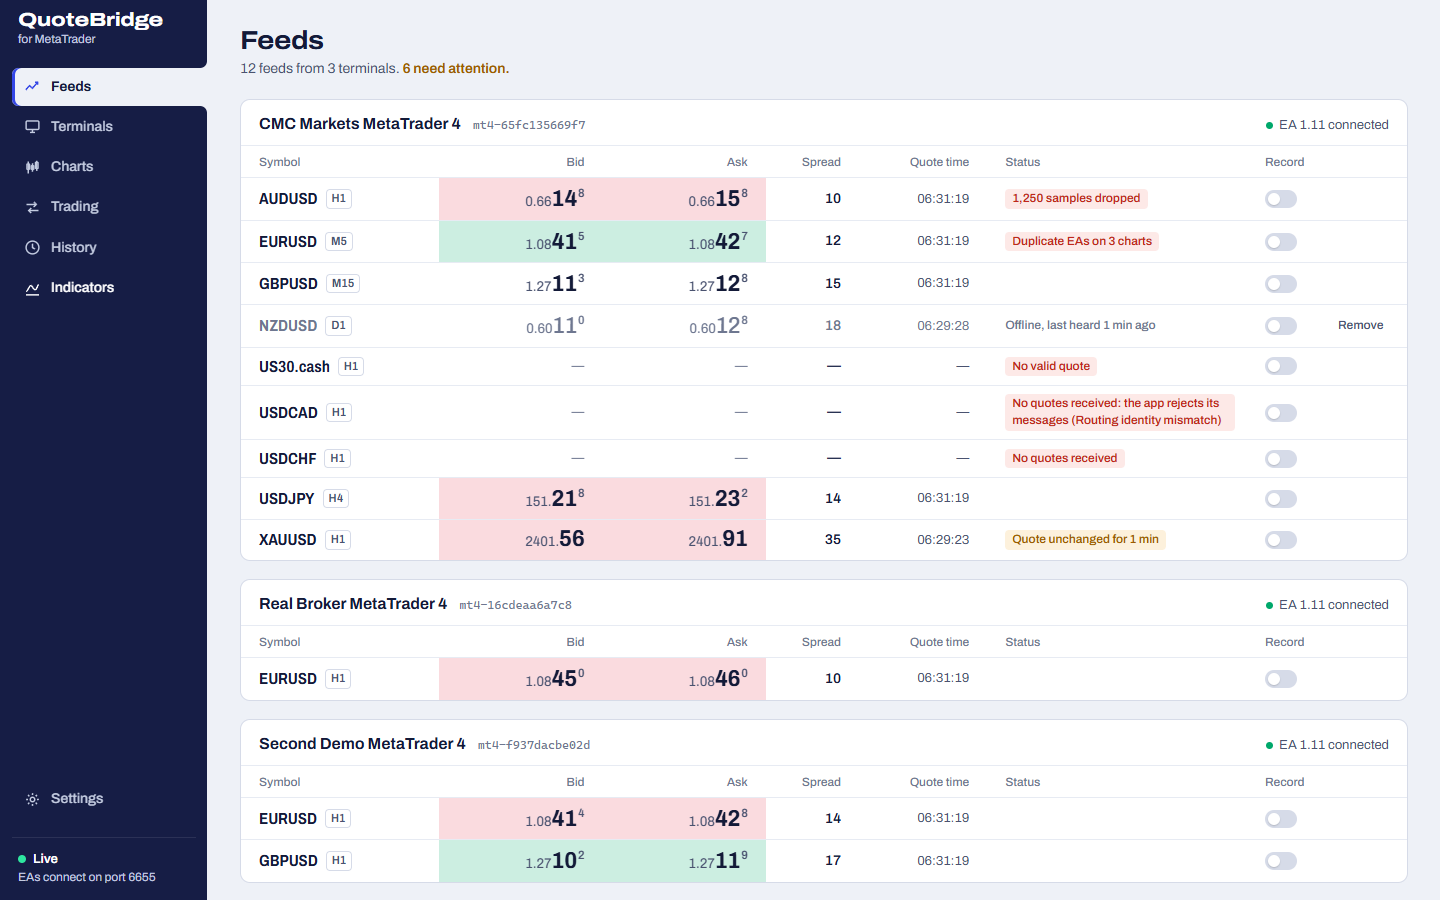
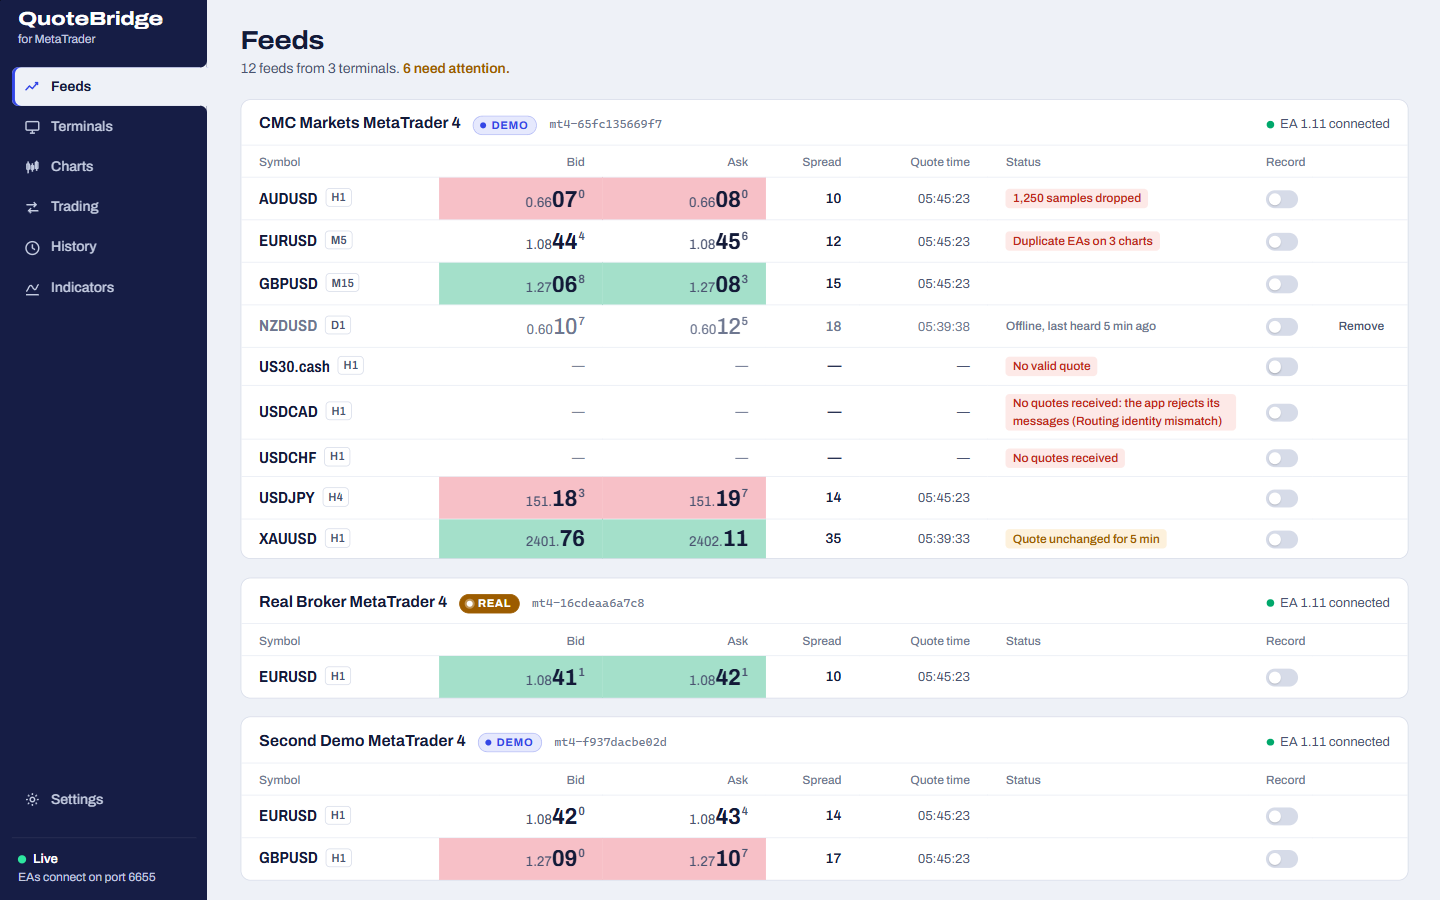
Add skill samples

diff --git a/docs/agents.md b/docs/agents.md
@@ -1,0 +1,103 @@
+# AI agents and remote access
+
+Talk to MetaTrader in plain words. The [mt4-quote-bridge-cli](https://github.com/ross-jill-ws/mt4-quote-bridge-cli)
+skill teaches an AI agent to use QuoteBridge: ask for a gold chart, a bitcoin quote, your funds or a trade, and the
+agent runs the `mt4-quote-bridge` [command-line client](cli.md) against the app for you.
+
+The agent can run on the same PC as QuoteBridge, or anywhere else once you open a tunnel to the app with
+[ngrok](#use-it-from-another-computer-with-ngrok).
+
+## Install the skill
+
+You need Node.js 22.12 or later on the computer where the agent runs.
+
+**Coding agents** (Claude Code, Codex, Cursor and others): run
+
+```
+npx skills@latest add https://github.com/ross-jill-ws/mt4-quote-bridge-cli
+```
+
+**Bot apps such as Grok Bot, Dots or Muse:** paste the same line into the chat and ask the bot to install it:
+
+```
+Install this skill:
+npx skills@latest add https://github.com/ross-jill-ws/mt4-quote-bridge-cli
+```
+
+The bot adds `mt4-quote-bridge-cli` to its skill library.
+
+![A bot installs the mt4-quote-bridge-cli skill from GitHub, connects to QuoteBridge through an ngrok address, asks for an API key and confirms it is signed in](images/agent-install-skill.gif)
+
+You don't install the CLI yourself. The first time the agent uses the skill, the skill installs `mt4-quote-bridge`
+from GitHub, which can take a minute. Later it updates the CLI when needed. Run `npx skills@latest update` to update
+the skill itself.
+
+## Connect the agent to the app
+
+1. In the QuoteBridge app window, open **Settings › API keys** and create a key. A `readonly` key reads everything. A
+   `trader` key can also take screenshots and preview and send trades. The key is shown once, so copy it.
+2. Tell the agent where the app is:
+   - On the same PC: the default, `http://127.0.0.1:5580`. Just ask for a quote.
+   - On another computer: the ngrok address from the [next section](#use-it-from-another-computer-with-ngrok), for
+     example "connect to `https://<your-address>.ngrok-free.dev`".
+3. Give the agent the key when it asks. Bot apps usually keep it in their secrets store.
+
+The agent then confirms it is signed in, and says which key it is using and whether that key can trade.
+
+## Use it from another computer with ngrok
+
+QuoteBridge answers only on its own PC, at `http://localhost:5580`. To reach it from a bot in the cloud, a laptop or
+your phone, open a tunnel with [ngrok](https://ngrok.com/download) on the PC that runs QuoteBridge:
+
+```
+ngrok http 5580 --host-header=rewrite
+```
+
+ngrok prints a **Forwarding** address such as `https://<your-address>.ngrok-free.dev`. Give that address to the
+agent, or use it with the CLI:
+
+```
+mt4-quote-bridge auth server https://<your-address>.ngrok-free.dev
+mt4-quote-bridge auth login
+```
+
+- **Don't leave out `--host-header=rewrite`.** Without it, the app refuses every request through the tunnel
+  (`Unexpected host`), and the CLI says the address "does not answer /api/v1/info". The app does this to protect you
+  from malicious websites.
+- If you changed the HTTP port in **Settings › Connection**, use that port in place of 5580.
+- The tunnel lasts as long as ngrok runs. Close ngrok to stop it.
+
+Anyone who has the address can reach the app, but every request except the version check needs an API key. Over a
+tunnel, give the agent a `readonly` key unless you want it to trade. Revoke a key in **Settings › API keys** the
+moment you no longer trust where it went. The tunnel serves the agent and the CLI; the app's dashboard stays in the
+app window.
+
+## What to ask
+
+Ask in your own words. The agent picks the command, and the skill tells it what each one needs.
+
+| Ask | The agent runs |
+| --- | --- |
+| "Current quote of bitcoin" | `markets quote` |
+| "Show me the chart of the gold price" | `screenshot chart`: it switches your app window to that chart and sends you the picture |
+| "Is everything still live?" | `screenshot feeds`, `terminals list` |
+| "Last 50 H1 candles of EURUSD" | `markets candles` |
+| "RSI on EURUSD H4" | `markets indicator` with a bundled or your own [indicator package](indicator-packages.md) |
+| "How much margin do I have left?" | `accounts funds` |
+| "What's the lot step and stop level for GOLD?" | `accounts conditions` |
+| "What trades do I have open?" | `positions list`, `orders list` |
+| "Buy 0.1 lot of EURUSD with a 20-pip stop" | `orders preview`, then, once you say yes, `requests execute` |
+| "Move my stop loss to 1.0850" or "Close that trade" | `positions modify` or `positions close`, as a preview first |
+| "Export a year of H1 gold to CSV" | `markets export` |
+
+![A bot answers "show me the chart of the gold price" with the gold charts from two brokers, then "current quote of bitcoin" with the live bid and ask](images/agent-chart-and-quote.gif)
+
+## Trading through an agent
+
+The agent never trades on its own. Every new order, change or close is a **preview** first: the agent shows you the
+symbol, side, lots, price and stops, and sends it only after you approve that exact preview. It sends each order
+once. If the outcome is unclear, it checks what happened, and it never sends the order again.
+
+The same rules apply as in the app: Demo trading must be on, the lot cap and slippage come from **Settings ›
+Trading**, and a real account stays read-only until you opt in to [Real-account trading](trading.md#real-accounts).
+Only the app window changes these settings; no agent can.

diff --git a/README.md b/README.md
@@ -39,6 +39,9 @@ scripts.
   and stay read-only until you opt in, in the app and on one chart; an unknown outcome is never sent twice. → [trading](docs/trading.md)
 - **Built for scripts and agents.** A local REST API and the `mt4-quote-bridge` CLI serve markets, candles, indicator
   values, accounts, screenshots and trading requests, behind read-only or trader API keys. → [REST API](docs/rest-api.md)
+- **Ask an AI agent.** Add the [mt4-quote-bridge-cli](https://github.com/ross-jill-ws/mt4-quote-bridge-cli) skill to
+  Claude Code, Codex or a bot app such as Grok Bot, Dots or Muse, then ask for a quote, a chart or a trade in plain
+  words, from this PC or, through an ngrok tunnel, from anywhere. → [AI agents](docs/agents.md)
 - **Stays out of the way.** It runs in the tray, starts with Windows, restarts its own server after a crash, updates
   the EA in every terminal when the app updates, and never changes MetaTrader's settings or permissions.
 
@@ -75,14 +78,26 @@ The terminal's checklist ticks itself off, and its quotes appear in **Feeds**.
 
 [Install](docs/install.md) · [getting started](docs/getting-started.md) ·
 [terminals](docs/terminals.md) · [indicator packages](docs/indicator-packages.md) · [trading](docs/trading.md) ·
-[trading page](docs/trading-page.md) · [command-line client](docs/cli.md) · [REST API v1](docs/rest-api.md) ·
+[trading page](docs/trading-page.md) · [AI agents and remote access](docs/agents.md) ·
+[command-line client](docs/cli.md) · [REST API v1](docs/rest-api.md) ·
 [account protocol](docs/account-protocol.md) · [development](docs/development.md)
 
 ## Agent instructions
 
 Agents using QuoteBridge go through the `mt4-quote-bridge` CLI and its skill: every command has `--help`, and an
-agent prepares trade previews and executes one only after you approve it. To convert an MT4 indicator, an agent uses
-the [mt4-indicator-to-package](.claude/skills/mt4-indicator-to-package/SKILL.md) skill in this repository.
+agent prepares trade previews and executes one only after you approve it. Install the skill with:
+
+```
+npx skills@latest add https://github.com/ross-jill-ws/mt4-quote-bridge-cli
+```
+
+In a bot app such as Grok Bot, Dots or Muse, paste that line into the chat and ask the bot to install the skill. To
+reach the app from another computer, run `ngrok http 5580 --host-header=rewrite` on the QuoteBridge PC and give the
+agent the address ngrok prints. [AI agents and remote access](docs/agents.md) covers API keys, what to ask, and shows
+a bot at work.
+
+To convert an MT4 indicator, an agent uses the
+[mt4-indicator-to-package](.claude/skills/mt4-indicator-to-package/SKILL.md) skill in this repository.
 
 ## Development
 

diff --git a/docs/cli.md b/docs/cli.md
@@ -1,7 +1,17 @@
 # Command-line client
 
-`mt4-quote-bridge` is QuoteBridge's command-line client (repository `mt4-quote-bridge-cli`). Each command calls one or
-more [REST API v1](rest-api.md) operations; this page lists them all. Trading rules are in [Trading](trading.md).
+`mt4-quote-bridge` is QuoteBridge's command-line client (repository
+[mt4-quote-bridge-cli](https://github.com/ross-jill-ws/mt4-quote-bridge-cli)). Each command calls one or more
+[REST API v1](rest-api.md) operations; this page lists them all. Trading rules are in [Trading](trading.md). To let an
+AI agent run it for you, from this PC or another computer, see [AI agents and remote access](agents.md).
+
+Install it by adding its agent skill (`npx skills@latest add https://github.com/ross-jill-ws/mt4-quote-bridge-cli`),
+which installs the CLI the first time the agent uses it, or on its own with Node.js 22.12 or later:
+
+```text
+npm pack github:ross-jill-ws/mt4-quote-bridge-cli
+npm install --global ./mt4-quote-bridge-cli-<version>.tgz
+```
 
 ```text
 mt4-quote-bridge <command> <subcommand> [options]
@@ -20,6 +30,8 @@ Every command has `--help` with its options, output and exit codes.
 | `config show` | Shows the effective server, config file and whether a key is saved (never the key) | — |
 
 - The app answers on this computer only (`127.0.0.1`, `localhost` or `[::1]`), on the HTTP port in Settings › Connection.
+  From another computer, go through a tunnel such as `ngrok http 5580 --host-header=rewrite` and pass its address to
+  `auth server`; see [AI agents and remote access](agents.md#use-it-from-another-computer-with-ngrok).
 - Create keys in the **app window › Settings › API keys**. `readonly` reads everything but screenshots; `trader` also
   takes screenshots and previews, executes and reviews requests. A `readonly` key's screenshot, preview, execute or
   review answers exit 4 (`insufficient-scope`).

diff --git a/docs/trading-page.md b/docs/trading-page.md
@@ -92,6 +92,8 @@ market: QuoteBridge never substitutes it.
 
 Only the app window changes these; a remote browser sees them read-only.
 
+![Settings › Trading with Demo trading and Real-account trading switched on, the lot cap 1.0 and slippage 20 points](images/settings-light.png)
+
 - **Demo trading** (off by default). Switching it off blocks every new order, change, close and cancel at once. It
   cannot recall a request already sent: for an emergency, act in MetaTrader. Sent requests are still followed and can
   be reviewed while it is off.
@@ -99,6 +101,9 @@ Only the app window changes these; a remote browser sees them read-only.
   `EnableRealTrading=true`. Switching it on shows its risks and needs your acknowledgement; switching it off applies at
   once, blocks every new request on real accounts and, like Demo trading, recalls nothing already sent. It is
   independent of Demo trading.
+
+  ![Settings › Trading asking "Allow trading on real accounts?": four risks, an acknowledge box to tick, and the Allow real-account trading button greyed until it is ticked](images/settings-confirm-light.png)
+
 - **Lot cap for new orders** (1.0 by default) and **Slippage** (20 points by default). A change discards open previews.
 - **Order defaults**: per market (symbol and broker server), the lots, stop loss and take profit a new order starts
   with; each is optional. Stop loss and take profit are points from the entry, so they follow the price and the side.

diff --git a/docs/getting-started.md b/docs/getting-started.md
@@ -86,7 +86,7 @@ switch on **Real-account trading** there. A demo account trades from any of its 
 on; a real account needs one chart with the EA input `EnableRealTrading=true`. [Trading](trading.md) explains every
 gate, and [the Trading page](trading-page.md) the view.
 
-![The Trading page: two demo accounts with funds, positions and pending orders](images/trading-dark.png)
+![The Trading page: two demo accounts marked Demo, with funds, positions and pending orders](images/trading-dark.png)
 
 ## 8. Use it from scripts and agents
 
@@ -101,7 +101,9 @@ gate, and [the Trading page](trading-page.md) the view.
    mt4-quote-bridge markets candles EURUSD --broker Demo-Broker --timeframe H1
    ```
 
-Every CLI command and subcommand has `--help`.
+Every CLI command and subcommand has `--help`. Or let an AI agent do it: add the CLI's skill to Claude Code, Codex
+or a bot app such as Grok Bot, Dots or Muse, and ask for quotes, charts and trades in plain words, even from
+another computer through ngrok. See [AI agents and remote access](agents.md).
 
 ## Next
 

diff --git a/docs/rest-api.md b/docs/rest-api.md
@@ -1,7 +1,8 @@
 # REST API v1
 
 The public API for the `mt4-quote-bridge` CLI and your own scripts: exact market, account, terminal and trading-request
-resources. It answers on the app's HTTP port (shown in Settings), on this computer only (`127.0.0.1`, `localhost` or `[::1]`), under `/api/v1`.
+resources. It answers on the app's HTTP port (shown in Settings), on this computer only (`127.0.0.1`, `localhost` or `[::1]`), under `/api/v1`. A tunnel must send one of those as the
+Host header (for ngrok, `--host-header=rewrite`); see [AI agents and remote access](agents.md).
 
 This is a clean-slate contract. It replaced the earlier legacy-compatible read API (`/symbols…`, `/history…`,
 `/indicators/:name/:symbol`) with no adapters: those paths now answer `404 unknown-route`. The data behind it is

diff --git a/docs/trading.md b/docs/trading.md
@@ -54,6 +54,8 @@ change, close and cancel the account's trades, through the same preview and exec
 a real account's order, and the Trading page says while Real-account trading is on. Switching it off blocks every new
 request on real accounts at once, but cannot recall one already sent.
 
+![The Trading page with Real-account trading on: its warning banner, and a real account marked Real that is ready to trade with real money](images/trading-real-light.png)
+
 ### If an account cannot trade
 
 The Trading page says why under the account, and the order dialog under its list of accounts:

diff --git a/docs/README.md b/docs/README.md
@@ -19,6 +19,8 @@ them, charts them with indicators, trades on demo accounts and serves it all to 
 
 ## Scripts and agents
 
+- [AI agents and remote access](agents.md): install the CLI's skill in an AI agent or bot app, reach the app from
+  another computer with ngrok, and what to ask.
 - [Command-line client](cli.md): every `mt4-quote-bridge` command and the API calls behind it.
 - [REST API v1](rest-api.md): markets, accounts, terminals, screenshots and trading requests for the CLI and your own
   scripts.
